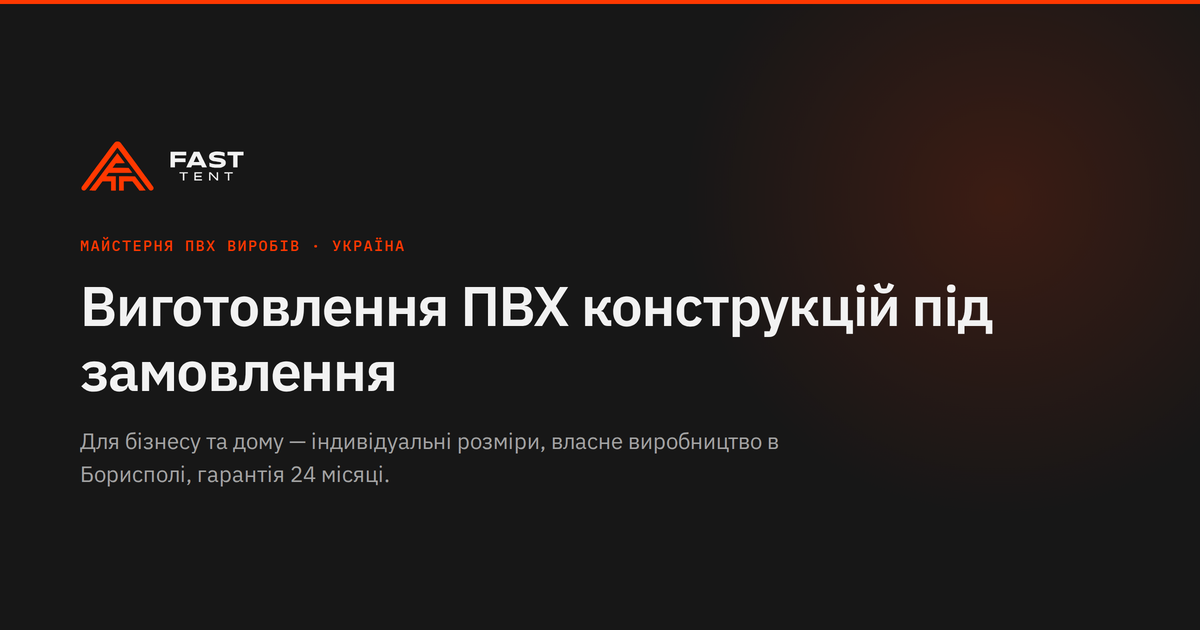
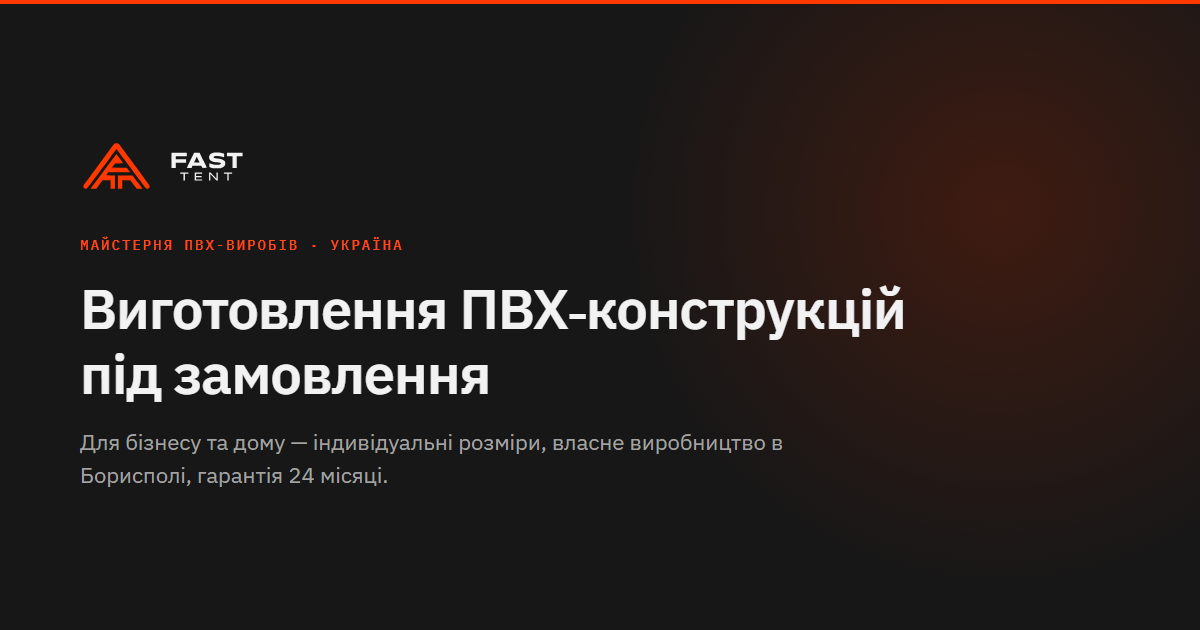
OG-картинка: «ПВХ-конструкцій», «ПВХ-виробів» з дефісом, «під замовлення» на одному рядку

diff --git a/content.ts b/content.ts
@@ -831,7 +831,7 @@ export const jsonLd = {
     alternateName: ["ФОП Голубєва-Єфанова Надія Олександрівна", "Фаст Тент", "Фасттент"],
     description:
       "Виготовлення та монтаж ПВХ-конструкцій під замовлення: м'які вікна, тентові накриття, промислові штори, індивідуальні рішення для бізнесу та приватних клієнтів по всій Україні.",
-    image: siteUrl + "/assets/og-image.png",
+    image: siteUrl + "/assets/og-image.png?v=2",
     logo: siteUrl + "/assets/logo.svg",
     telephone: "+380668589390",
     email: "tentsfast@gmail.com",

diff --git a/app/layout.tsx b/app/layout.tsx
@@ -37,13 +37,13 @@ export const metadata: Metadata = {
     description: meta.ogDescription,
     url: siteUrl + "/",
     locale: "uk_UA",
-    images: [{ url: "/assets/og-image.png", width: 1200, height: 630 }],
+    images: [{ url: "/assets/og-image.png?v=2", width: 1200, height: 630 }],
   },
   twitter: {
     card: "summary_large_image",
     title: meta.ogTitle,
     description: meta.ogDescription,
-    images: ["/assets/og-image.png"],
+    images: ["/assets/og-image.png?v=2"],
   },
   icons: {
     icon: [
